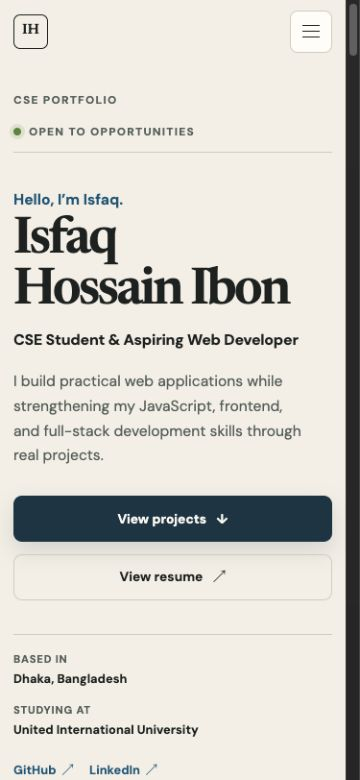
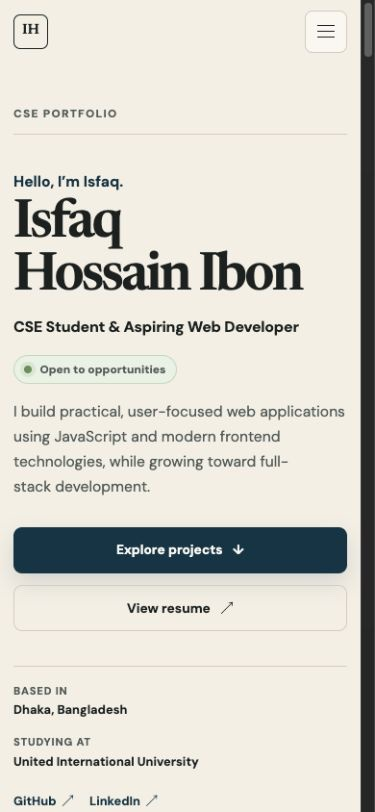
Restore README portfolio screenshots

diff --git a/README.md b/README.md
@@ -67,13 +67,15 @@ Expected live website:
 
 If the repository name changes, update the canonical and Open Graph URLs in `index.html`.
 
-## Screenshot
+## Screenshots
 
-![Current portfolio homepage preview](./assets/portfolio-preview-current.jpg)
+### Desktop Preview
 
-![Current portfolio mobile preview](./assets/portfolio-mobile-preview-current.jpg)
+![Current portfolio homepage preview](assets/portfolio-preview.jpg)
 
-The social-sharing card is available at `assets/og-portfolio.png`.
+### Mobile Preview
+
+![Current portfolio mobile preview](assets/portfolio-mobile-preview.jpg)
 
 ## Content still to add
 
